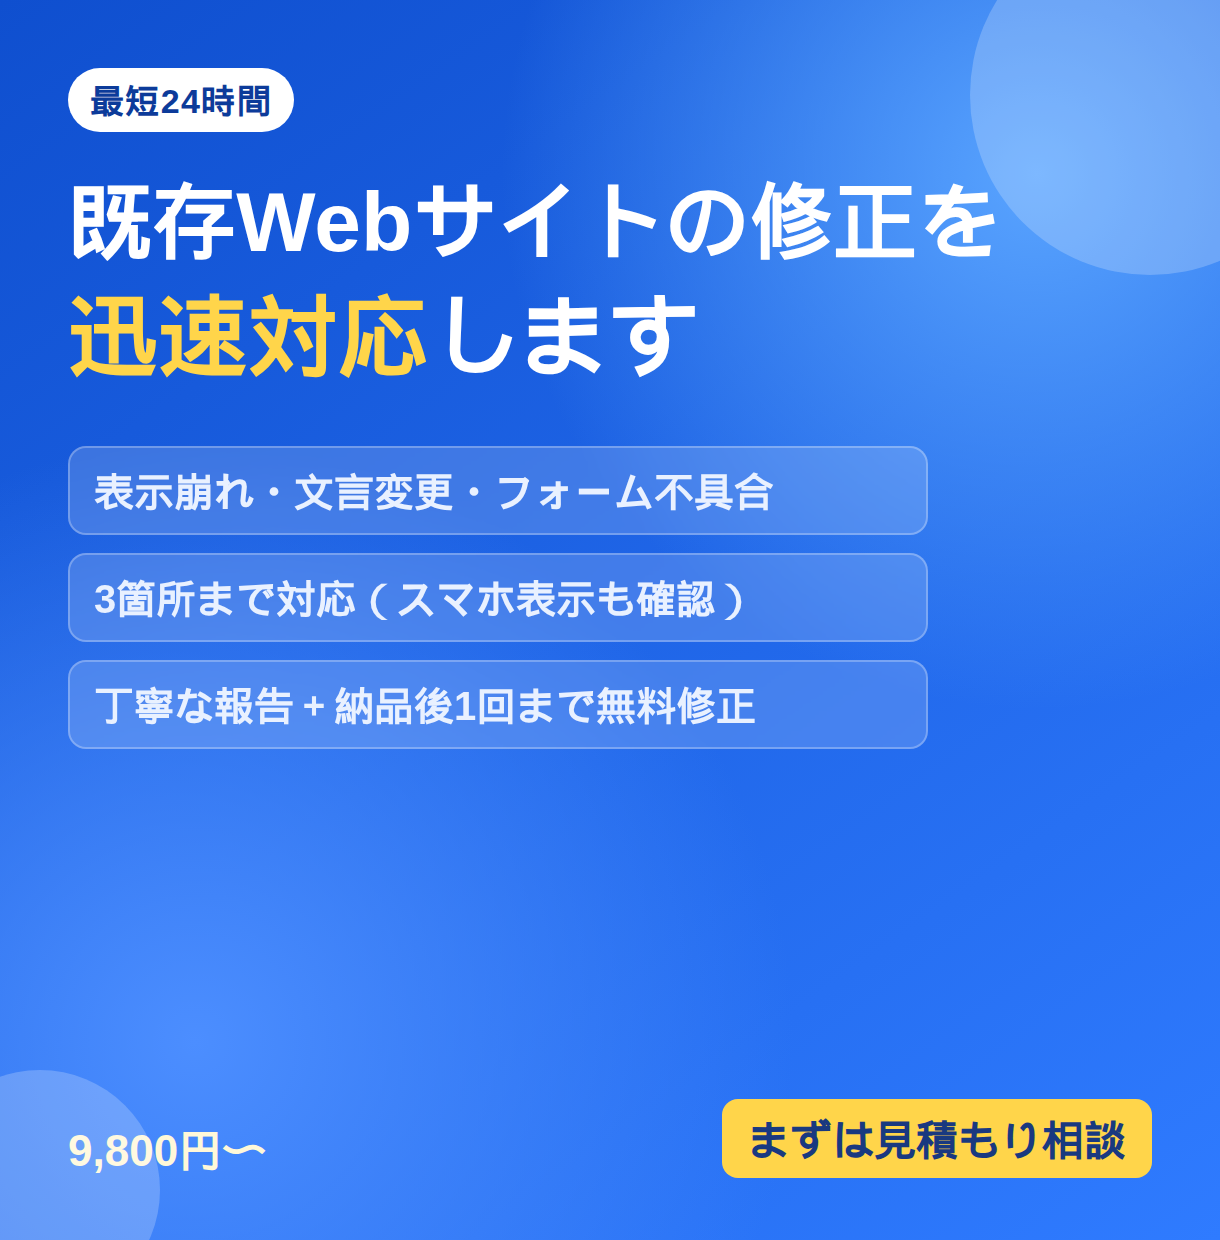
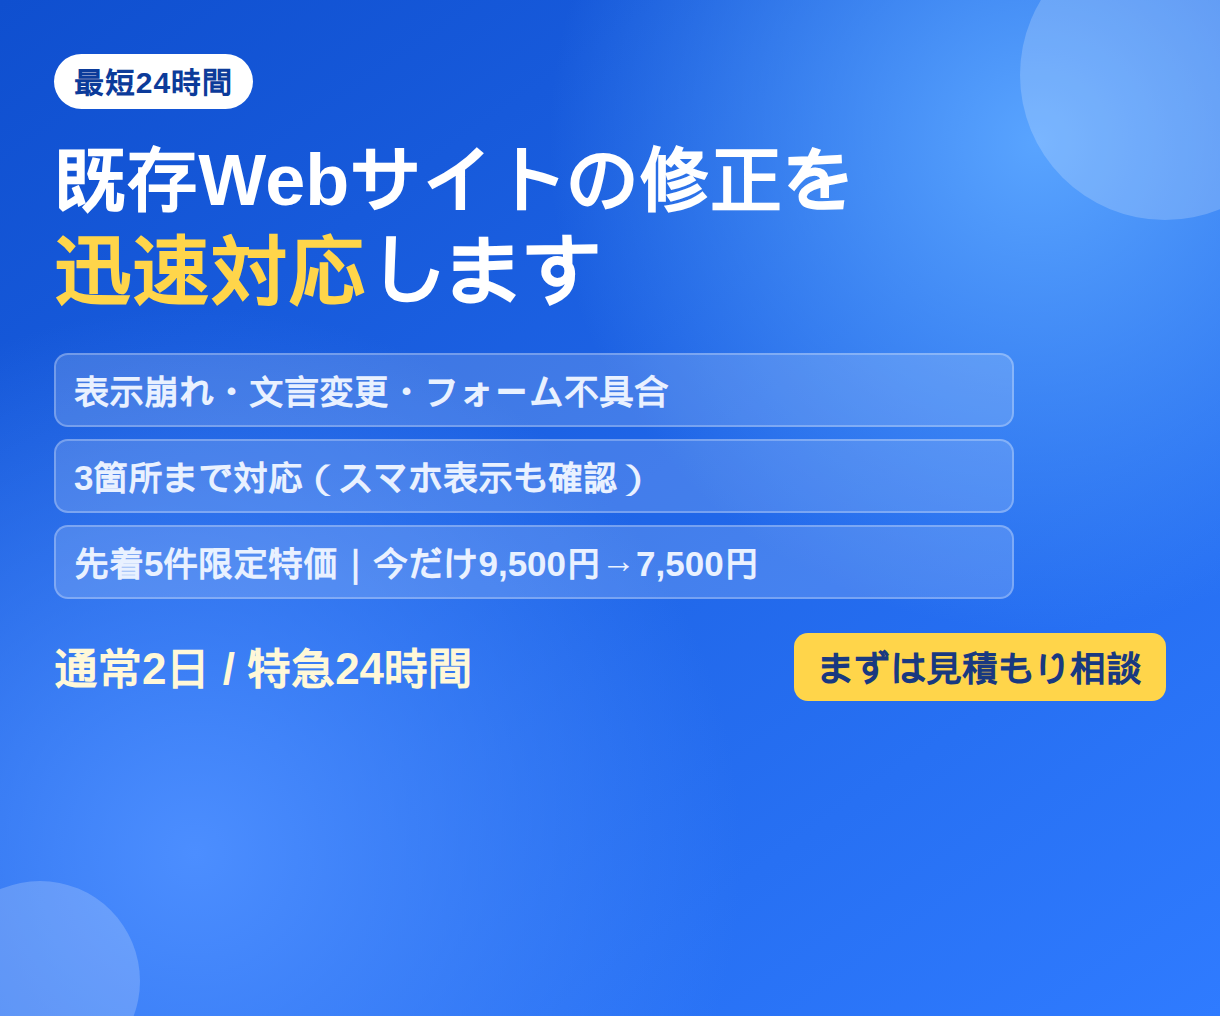
Adjust Coconala thumbnail to 1220x1016 ratio

diff --git a/docs/assets/coconala-thumbnail-webfix.html b/docs/assets/coconala-thumbnail-webfix.html
@@ -23,7 +23,7 @@
       body {
         margin: 0;
         width: 1220px;
-        height: 1240px;
+        height: 1016px;
         font-family: "Noto Sans JP", "Hiragino Kaku Gothic ProN", "Yu Gothic", sans-serif;
       }
 
@@ -34,7 +34,7 @@
           radial-gradient(circle at 16% 84%, #4c8eff 0%, rgba(76, 142, 255, 0) 41%),
           linear-gradient(145deg, var(--bg-1) 0%, var(--bg-2) 100%);
         color: var(--text-main);
-        padding: 68px;
+        padding: 54px;
         position: relative;
         overflow: hidden;
       }
@@ -44,22 +44,22 @@
         content: "";
         position: absolute;
         border-radius: 999px;
-        opacity: 0.22;
+        opacity: 0.2;
       }
 
       .canvas::before {
-        width: 360px;
-        height: 360px;
-        right: -110px;
-        top: -85px;
+        width: 290px;
+        height: 290px;
+        right: -90px;
+        top: -70px;
         background: #ffffff;
       }
 
       .canvas::after {
-        width: 240px;
-        height: 240px;
-        left: -80px;
-        bottom: -70px;
+        width: 200px;
+        height: 200px;
+        left: -60px;
+        bottom: -65px;
         background: #ffffff;
       }
 
@@ -67,27 +67,27 @@
         display: inline-block;
         background: var(--badge-bg);
         color: var(--badge-text);
-        padding: 10px 22px;
+        padding: 8px 20px;
         border-radius: 999px;
         font-weight: 800;
-        font-size: 34px;
-        letter-spacing: 0.04em;
+        font-size: 30px;
+        letter-spacing: 0.03em;
       }
 
       .title {
-        margin-top: 38px;
+        margin-top: 28px;
         font-weight: 900;
-        line-height: 1.25;
+        line-height: 1.2;
         letter-spacing: 0.01em;
       }
 
       .title .line1 {
-        font-size: 84px;
+        font-size: 72px;
       }
 
       .title .line2 {
-        font-size: 90px;
-        margin-top: 6px;
+        font-size: 78px;
+        margin-top: 2px;
       }
 
       .title .accent {
@@ -95,32 +95,29 @@
       }
 
       .features {
-        margin-top: 52px;
+        margin-top: 34px;
         display: grid;
         grid-template-columns: 1fr;
-        gap: 18px;
-        max-width: 860px;
+        gap: 12px;
+        max-width: 960px;
       }
 
       .feature {
         background: rgba(255, 255, 255, 0.16);
         border: 2px solid rgba(255, 255, 255, 0.27);
-        border-radius: 18px;
-        padding: 16px 24px;
-        font-size: 40px;
+        border-radius: 14px;
+        padding: 12px 18px;
+        font-size: 35px;
         font-weight: 700;
         color: var(--text-sub);
-        backdrop-filter: blur(2px);
       }
 
       .footer {
-        position: absolute;
-        left: 68px;
-        right: 68px;
-        bottom: 62px;
+        margin-top: 34px;
         display: flex;
         justify-content: space-between;
-        align-items: flex-end;
+        align-items: center;
+        gap: 16px;
       }
 
       .price {
@@ -132,10 +129,11 @@
       .cta {
         background: var(--accent);
         color: #193980;
-        font-size: 42px;
+        font-size: 36px;
         font-weight: 900;
-        padding: 12px 26px;
-        border-radius: 16px;
+        padding: 10px 24px;
+        border-radius: 14px;
+        white-space: nowrap;
       }
     </style>
   </head>
@@ -151,11 +149,11 @@
       <section class="features">
         <div class="feature">表示崩れ・文言変更・フォーム不具合</div>
         <div class="feature">3箇所まで対応（スマホ表示も確認）</div>
-        <div class="feature">丁寧な報告＋納品後1回まで無料修正</div>
+        <div class="feature">先着5件限定特価｜今だけ9,500円→7,500円</div>
       </section>
 
       <footer class="footer">
-        <div class="price">9,800円〜</div>
+        <div class="price">通常2日 / 特急24時間</div>
         <div class="cta">まずは見積もり相談</div>
       </footer>
     </main>

diff --git a/docs/thread-minutes/2026-04-18-coconala-thumbnail.md b/docs/thread-minutes/2026-04-18-coconala-thumbnail.md
@@ -1,6 +1,6 @@
 # Thread Minutes: Coconala thumbnail generation
 - Date: 2026-04-18
 - Request: ココナラ出品用に、受注しやすいタイトルに合うサムネイル画像を生成する。
-- Actions: 1220x1240向けHTMLテンプレを作成し、PlaywrightでPNGを書き出し。
-- Outcome: `docs/assets/coconala-thumbnail-webfix.png` を生成し、再編集可能なHTMLテンプレも保存。
-- Next: 必要なら配色・文言差分のA/B版を同テンプレから追加出力する。
+- Actions: HTMLテンプレを作成し、表示切れ対策として1220x1016比率に再調整してPNGを再出力。
+- Outcome: `docs/assets/coconala-thumbnail-webfix.png` を1220x1016で更新し、ココナラ表示向けの文字配置に最適化。
+- Next: 必要なら同テンプレで色違い・訴求違いのA/B版を追加生成する。
